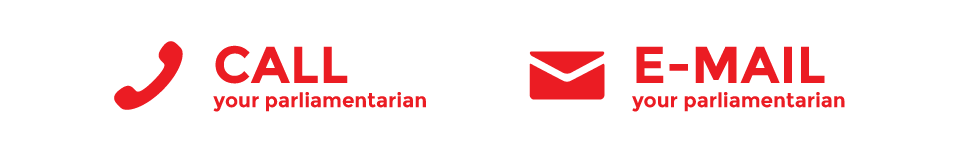
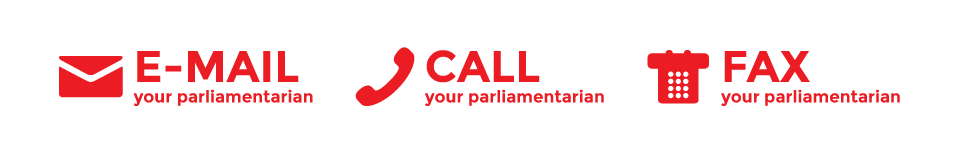
moar widgets, responsive design

Changed region(s): [[0.0625, 0.2649, 0.9375, 0.7417]]

diff --git a/index.html b/index.html
@@ -9,7 +9,7 @@
 	<meta name="author" content="Initiative für Netzfreiheit, European Digital Rights">
 	<meta name="keywords" content="net neutrality, connected conntinent, digital single market, dsm, neelie kroes, Netzneutralität, drosselkom, specialised services, echtesnetz, BEREC, Internetneutralität, Plattformneutralität, Neutralitätsdebatte">
 	<script type="text/javascript" src="/js/jquery-latest.js"></script>
-	
+	<script type="text/javascript" src="/js/strg_s.js"></script>
 	<script type="text/javascript" src="/js/share.json"></script>
 
 	<script>
@@ -87,27 +87,19 @@
 		
 		<ul class=unstyle id=goalslist>
 			<li><img src="/img/No-1.png" class=goalslisticon style="margin-top:-8px;"><span class=ovhid>
-			We don't want a two-class Internet - all data should be treated equaly. 
-			Article 19 has to be deleted.</span>
+			We don't want a two-class Internet - all data should be treated equaly. Article 19 has to be deleted.</span>
 			</li>
 			<li><img src="/img/No-2.png" class=goalslisticon><span class=ovhid>
-			Private companies should be not judge, jury and police over our content online. internet censorship
-			for "serious crime" prevention is not the right way. Article 23.5.a.
-			has to be deleted.</span>
+			Private companies should be not judge, jury and police over our content online. internet censorship for "serious crime" prevention is not the right way. Article 23.5.a. has to be deleted.</span>
 			</li>
 			<li><img src="/img/No-3.png" class=goalslisticon><span class=ovhid>
-			Europe won the nobel peace prize - Our credebility on human rights
-			issues shouldn't be jeopardized by the same internet cencorship
-			that we critice elsewhere in the world.</span>
+			Europe won the nobel peace prize - Our credebility on human rights issues shouldn't be jeopardized by the same internet cencorship that we critice elsewhere in the world.</span>
 			</li>
 			<li><img src="/img/No-4.png" class=goalslisticon><span class=ovhid>
-			To prevent harm and additional costs from the open internet our
-			definition of "specialised service" has to exclude all services of the
-			open internet. (Article 2.15)</span>
+			To prevent harm and additional costs from the open internet our definition of "specialised service" has to exclude all services of the open internet. (Article 2.15)</span>
 			</li>
 			<li><img src="/img/No-5.png" class=goalslisticon><span class=ovhid>
-			Replace "shall be free" with "have the right" to ensure that the text
-			does not allow discriminatory services. (Article 23)</span>
+			Replace "shall be free" with "have the right" to ensure that the text does not allow discriminatory services. (Article 23)</span>
 			</li>
 		</ul>
 		
@@ -116,42 +108,18 @@
 			<div class=whyblock>
 				<div class=whyimg><img src="/img/goal1.png"></div>
 				<h4>You Could Pay More for Less Internet Service</h4>
-				<p>The EU Commission has proposed a
-				Regulation that would allow Internet
-				providers to charge extra money for
-				every online service. They call it
-				"specialised services", and it could lead
-				to the creation of a two-tiered internet,
-				where only companies with deep
-				pockets can afford to be in the fast lane,
-				leaving the rest of us in the dust.</p>
+				<p>The EU Commission has proposed a Regulation that would allow Internet providers to charge extra money for every online service. They call it "specialised services", and it could lead to the creation of a two-tiered internet, where only companies with deep pockets can afford to be in the fast lane, leaving the rest of us in the dust.</p>
 			</div>
 			<div class=whyblock>
 				<div class=whyimg><img src="/img/goal2.png" style="margin: 23px 0"></div>
-				<h4>Internet Providers Will
-				Decide What You Can
-				and Can't Do Online</h4>
-				<p>Unless the Regulation is amended,
-				Internet Providers will be able to block
-				content without any judicial oversight.
-				Internet Service Providers should not be
-				the police of the internet. They should
-				not be allowed to decide what content
-				you can and cannot access.</p>
+				<h4>Internet Providers Will Decide What You Can and Can't Do Online</h4>
+				<p>Unless the Regulation is amended, Internet Providers will be able to block content without any judicial oversight. Internet Service Providers should not be the police of the internet. They should not be allowed to decide what content you can and cannot access.</p>
 			</div>
 			<div class=whyblock>
 				<div class=whyimg><img src="/img/goal3.png" style="margin: 9px 0"></div>
-				<h4>Freedom of Speech
-				Will Be Restricted and
-				Innovation Stifled</h4>
+				<h4>Freedom of Speech Will Be Restricted and Innovation Stifled</h4>
 				<p>Right now big companies like Microsoft
-				and Facebook are on the same level as
-				our Blogs or Podcasts. But if the
-				definition of "specialised services" isn't
-				fixed, these companies will be in the fast
-				lane on the data highway, leaving
-				start-ups and non-commercial websites
-				like Wikipedia in the slow lane.</p>
+				and Facebook are on the same level as our Blogs or Podcasts. But if the definition of "specialised services" isn't fixed, these companies will be in the fast lane on the data highway, leaving start-ups and non-commercial websites like Wikipedia in the slow lane.</p>
 			</div>
 			<div class=clr></div>
 		</div>
@@ -304,19 +272,27 @@
 			<div class=divline></div>
 
 			<div class=actbox id=actboxphone>
-				<img class=callimg src="/img/Call-MEPs.png" alt="Call MEPs!">
-				<div style="margin: 0 0 0 156px;padding: 0 0 20px;">
-					<div style="margin: 1px; overflow:hidden; height: 180px; width: 610px;">
+				<img class=callimg src="/img/Call-MEPs.png" alt="Call MEPs! Demand the enforcement of a true and unconditional Net neutrality!">
+				<div class=actboxitem>
+					<div id=calliframe style="margin: 1px; overflow:hidden; height: 180px; width: 610px;">
 						<object data="//piphone.lqdn.fr/campaign/widget2/NetNeutrality-ITRE-nov_13/horiz/en" width="612" height="210" style="margin: -1px;"></object>
 					</div>
 				</div>
+				<a onclick="nextmep()" class=nextmep>Get another MEP</a>
 			</div>
-			
-			<div class=actbox id=actboxmail>
-				<img class=callimg src="/img/E-Mail-MEPs.png" alt="E-Mail MEPs!">
-				<div style="margin-left: 158px;padding-bottom: 10px;">
-					<object data="//pimail.tentacleriot.eu/fax/" width="630" height="390"></object>
+			<div class=actbox id=actboxfax>
+				<img class=callimg src="/img/Fax-MEPs.png" alt="Fax MEPs! Demand the enforcement of a true and unconditional Net neutrality!">
+				<div id=faxiframe class=actboxitem>
+					<object data="//pimail.tentacleriot.eu/fax/" width="630" height="355"></object>
 				</div>
+				<a onclick="nextmep()" class=nextmep>Get another MEP</a>
+			</div>
+			<div class=actbox id=actboxmail>
+				<img class=callimg src="/img/E-Mail-MEPs.png" alt="E-Mail MEPs! Demand the enforcement of a true and unconditional Net neutrality!">
+				<div id=mailiframe class=actboxitem>
+					<object data="//pimail.tentacleriot.eu/" width="630" height="390"></object>
+				</div>
+				<a onclick="nextmep()" class=nextmep>Get another MEP</a>
 			</div>
 			<div class=clr></div>
 
@@ -335,8 +311,8 @@
 						<img src="/img/Download-Banner-Package-Button.png">
 				</div>
 
-				<img src="/img/SavetheInternet-Banner-Vertical.png" style="float:right; margin-bottom: 20px;">
-				<img src="/img/SavetheInternet-Banner-Horizontal.png">
+				<img src="/img/SavetheInternet-Banner-Vertical.png" id=bannervert>
+				<img src="/img/SavetheInternet-Banner-Horizontal.png" style="width:100%;_width:719px;max-width:719px;">
 			</div>
 			</a>
 		</div>

diff --git a/css/save.css b/css/save.css
@@ -305,15 +305,33 @@ td > a {
 	padding: 10px 0 40px;
 }
 
+.callimg {
+	_width: 800px;
+	width:100%;
+	max-width: 800px;
+}
+
 .actbox {
 	background: #fff;
 	margin-top:10px;
-/*	float:left;	*/
-}
-#actboxphone {
-/*	margin-right:8px; */
+	color: #eb1c23;
+	position:relative;
 }
 
+.actboxitem {
+	margin: 0 0 0 158px;
+	padding: 0 0 20px;
+}
+
+.nextmep {
+	font: 16px Montserrat-Bold;
+	cursor: pointer;
+	display:inline-block;
+	padding: 0 20px 20px 0;
+	position:absolute;
+	bottom:0;
+	right:0;
+}
 
 #sharebox {
 	text-align:center;
@@ -530,7 +548,10 @@ footer {
 }
 
 
-
+#bannervert {
+	float:right;
+	margin-bottom: 20px;
+}
 
 @media screen and (max-width: 770px){
 
@@ -550,6 +571,26 @@ footer {
 	
 	#langnav {
 		margin-right:10px;
+	}
+	.nextmep {
+		position: relative;
+		margin-left: 40px;
+	}
+	
+	#bannerbox {
+		text-align:center;
+	}
+	#bannerbt {
+		width: 90%;
+		margin: 0 5% 30px;
+	}
+	#bannervert {
+		float:none;
+	}
+
+	.actboxitem {
+		margin: 0 0 0 40px;
+		padding: 0 0 20px;
 	}
 
 }
